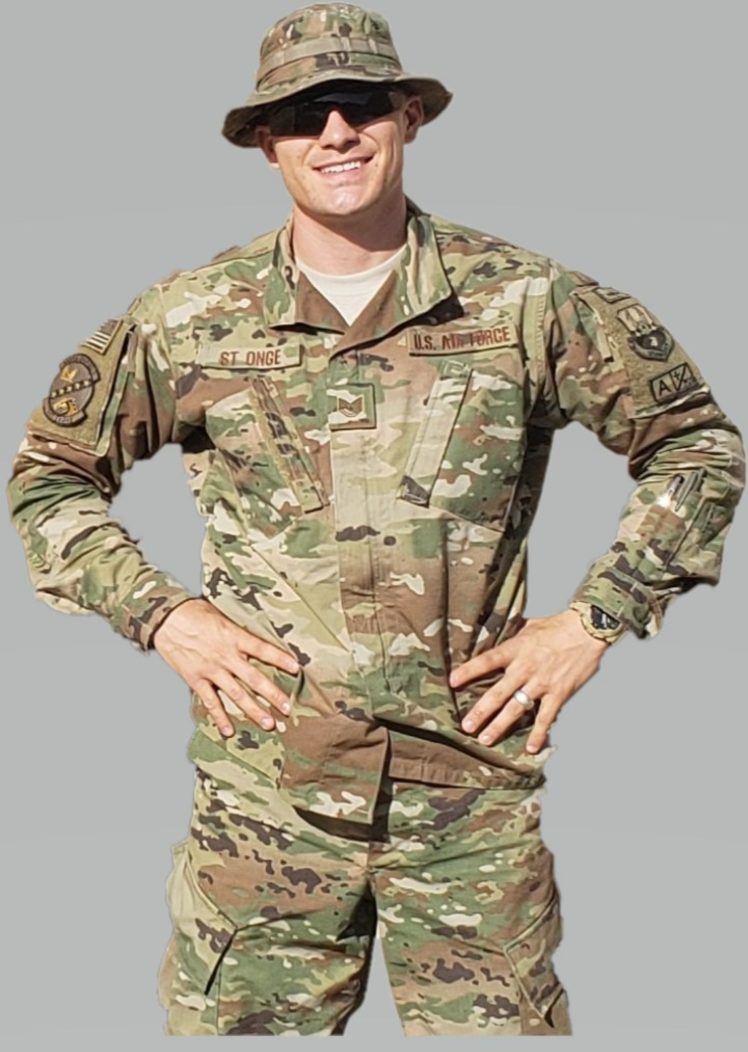
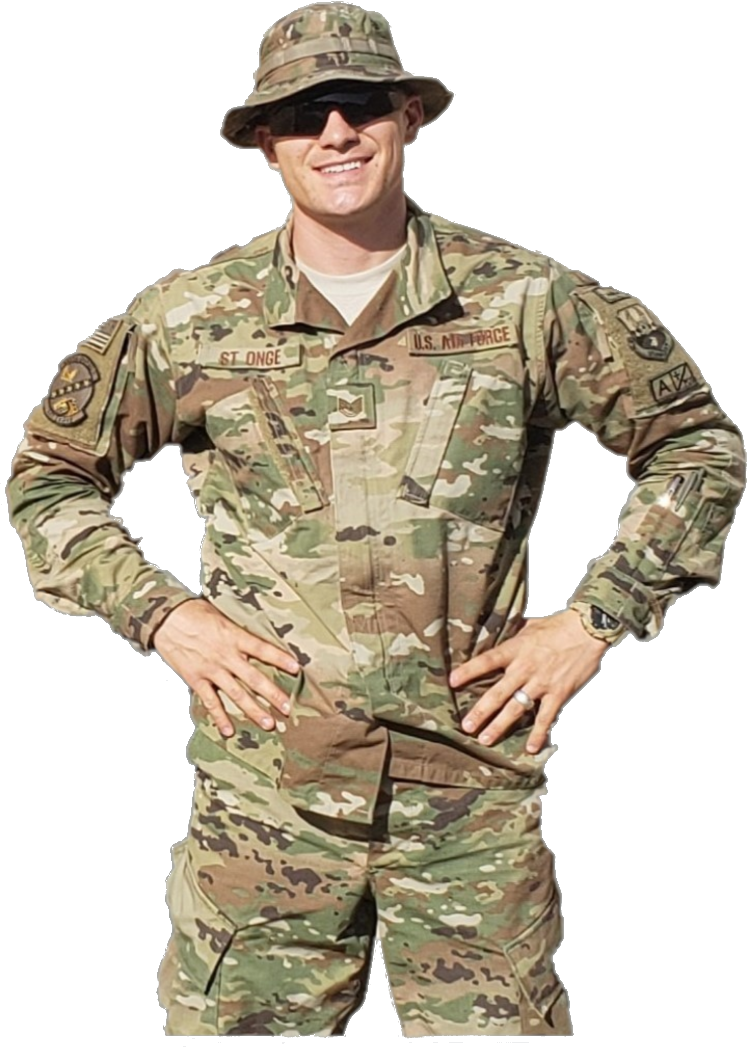
fixed broken code

diff --git a/index.html b/index.html
@@ -91,7 +91,7 @@
                 </div>
             
                 <div class="col-md-6 text-right">
-                    <img src="/assets/img/meInCamoTrans.jpg" alt="oH No!">
+                    <img src="/assets/img/meInCamoTransformers.png" alt="oH No!">
                 </div>
 
             </div>

diff --git a/assets/css/responsive.css b/assets/css/responsive.css
@@ -299,7 +299,7 @@
 	}
 
 	.hero h1 {
-		font-size: 32px
+		font-size: 32px;
 		margin-bottom: 10px;
 	}
 
